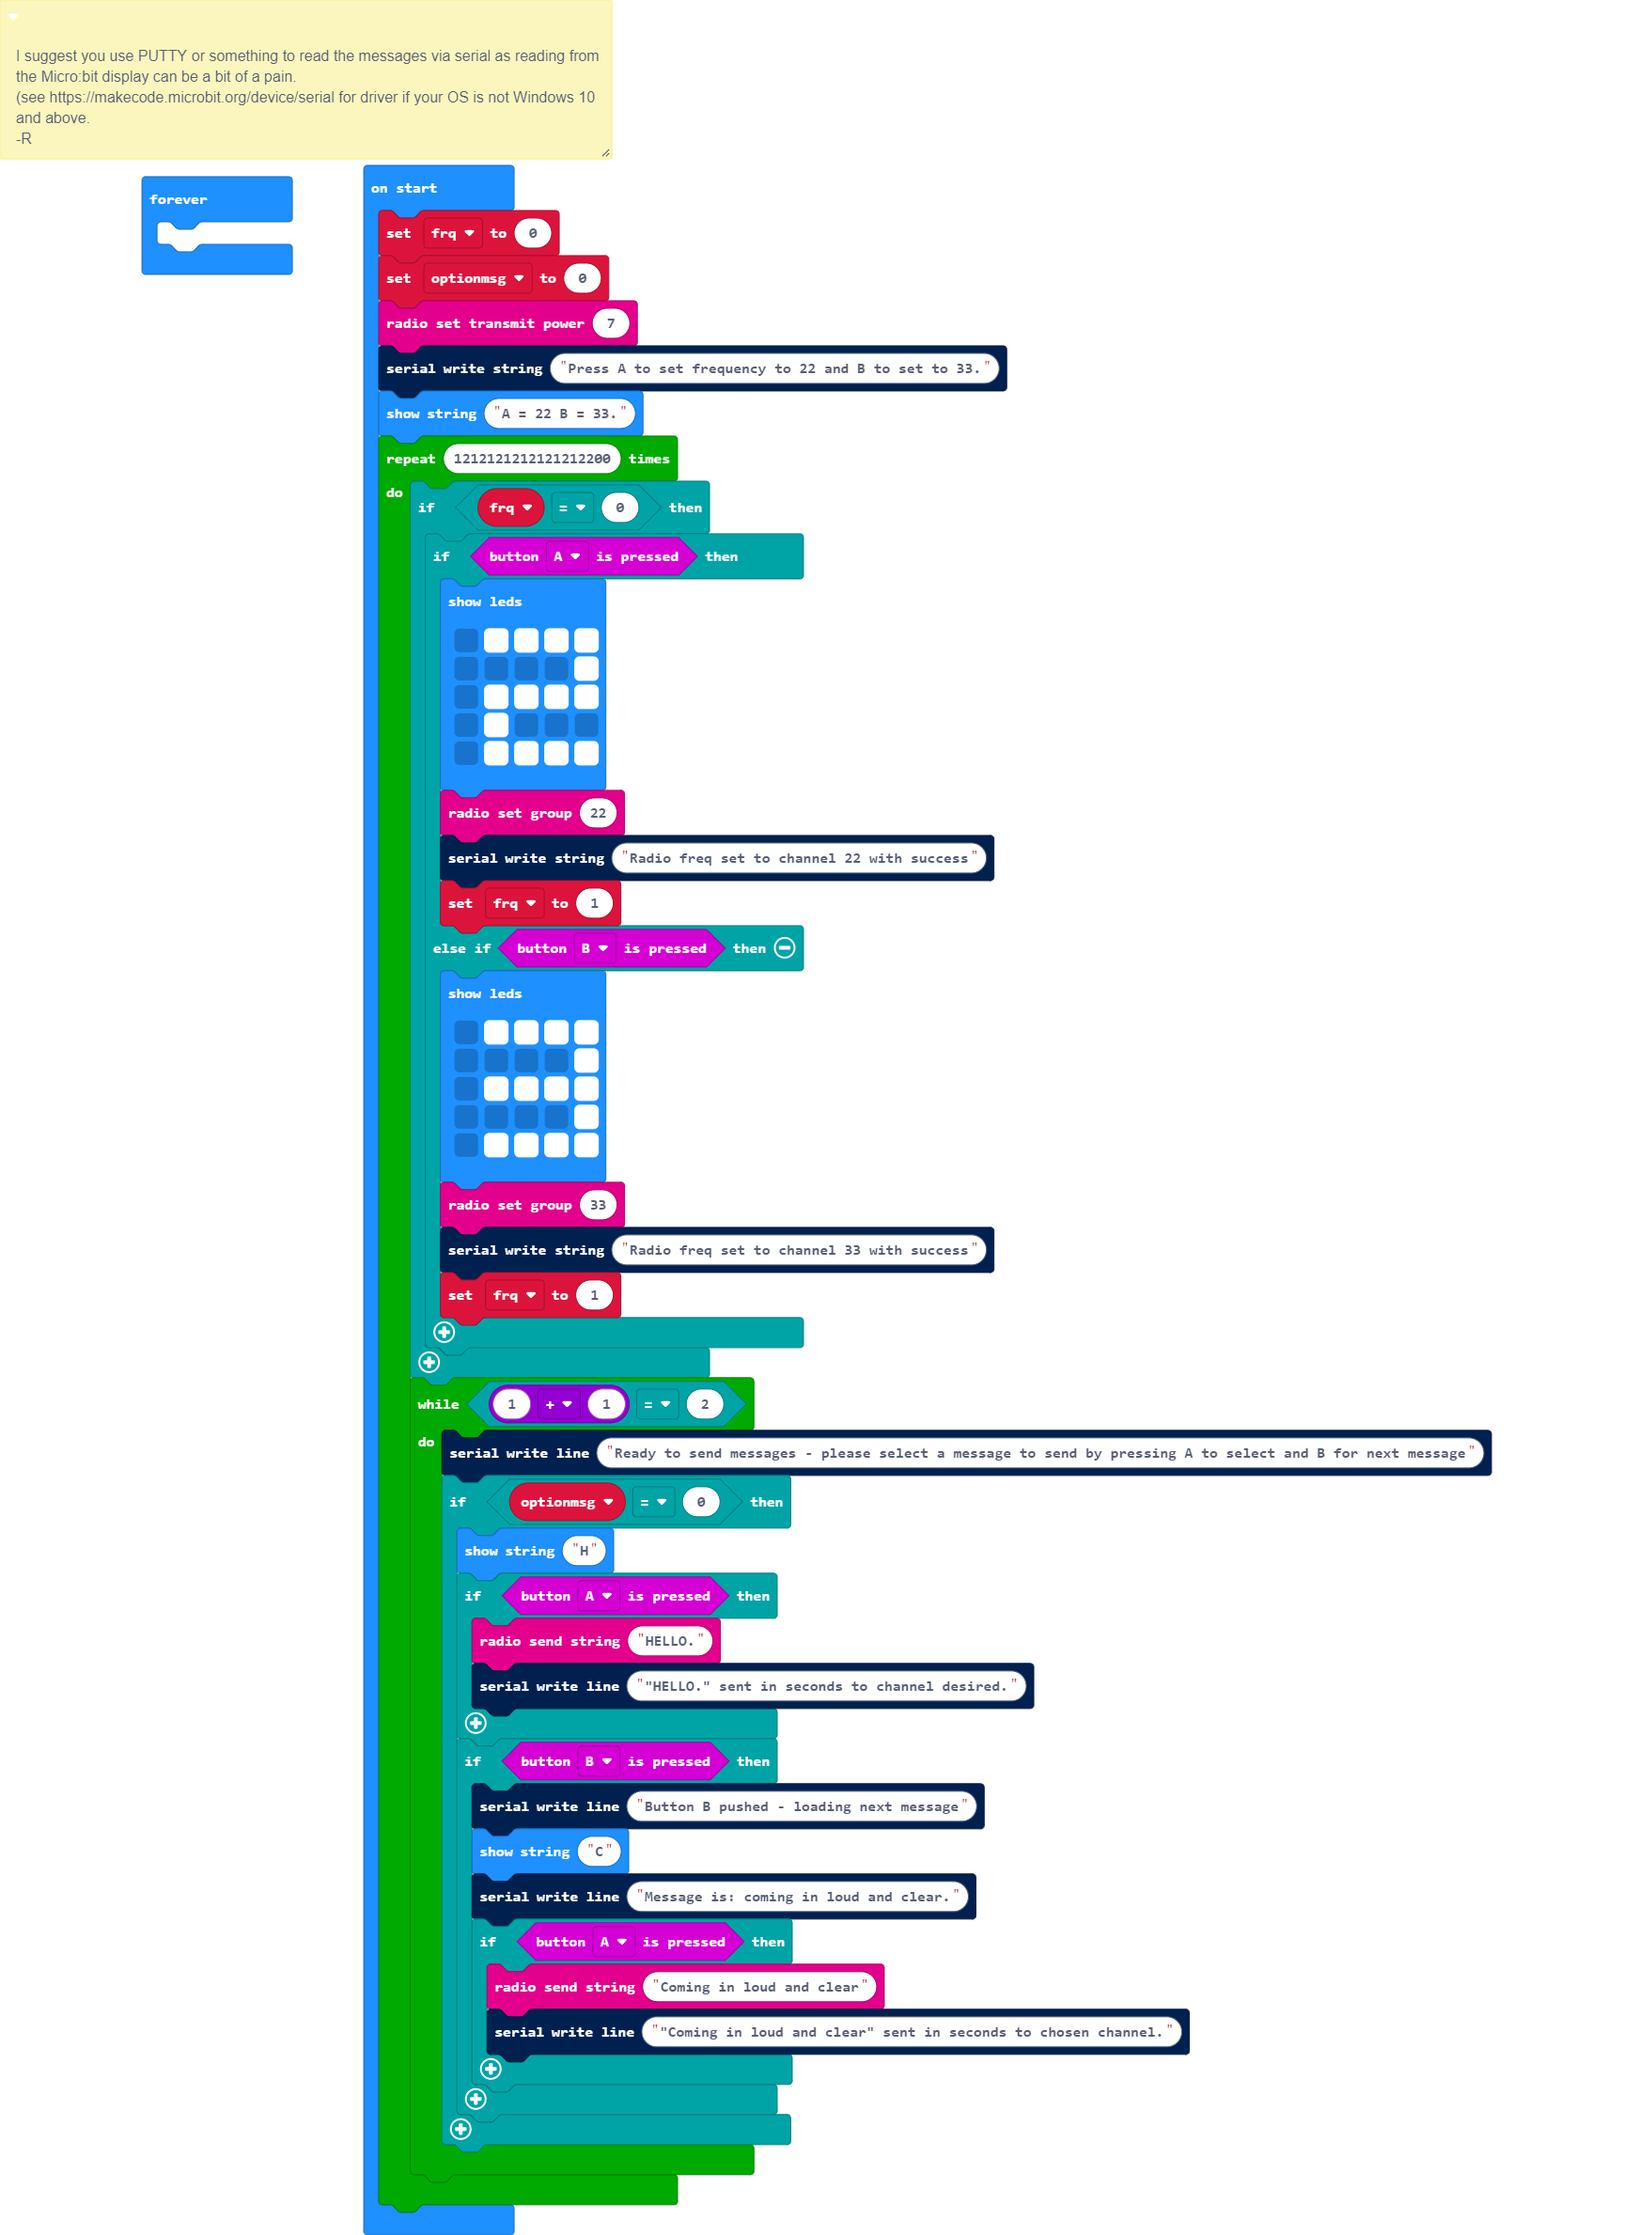
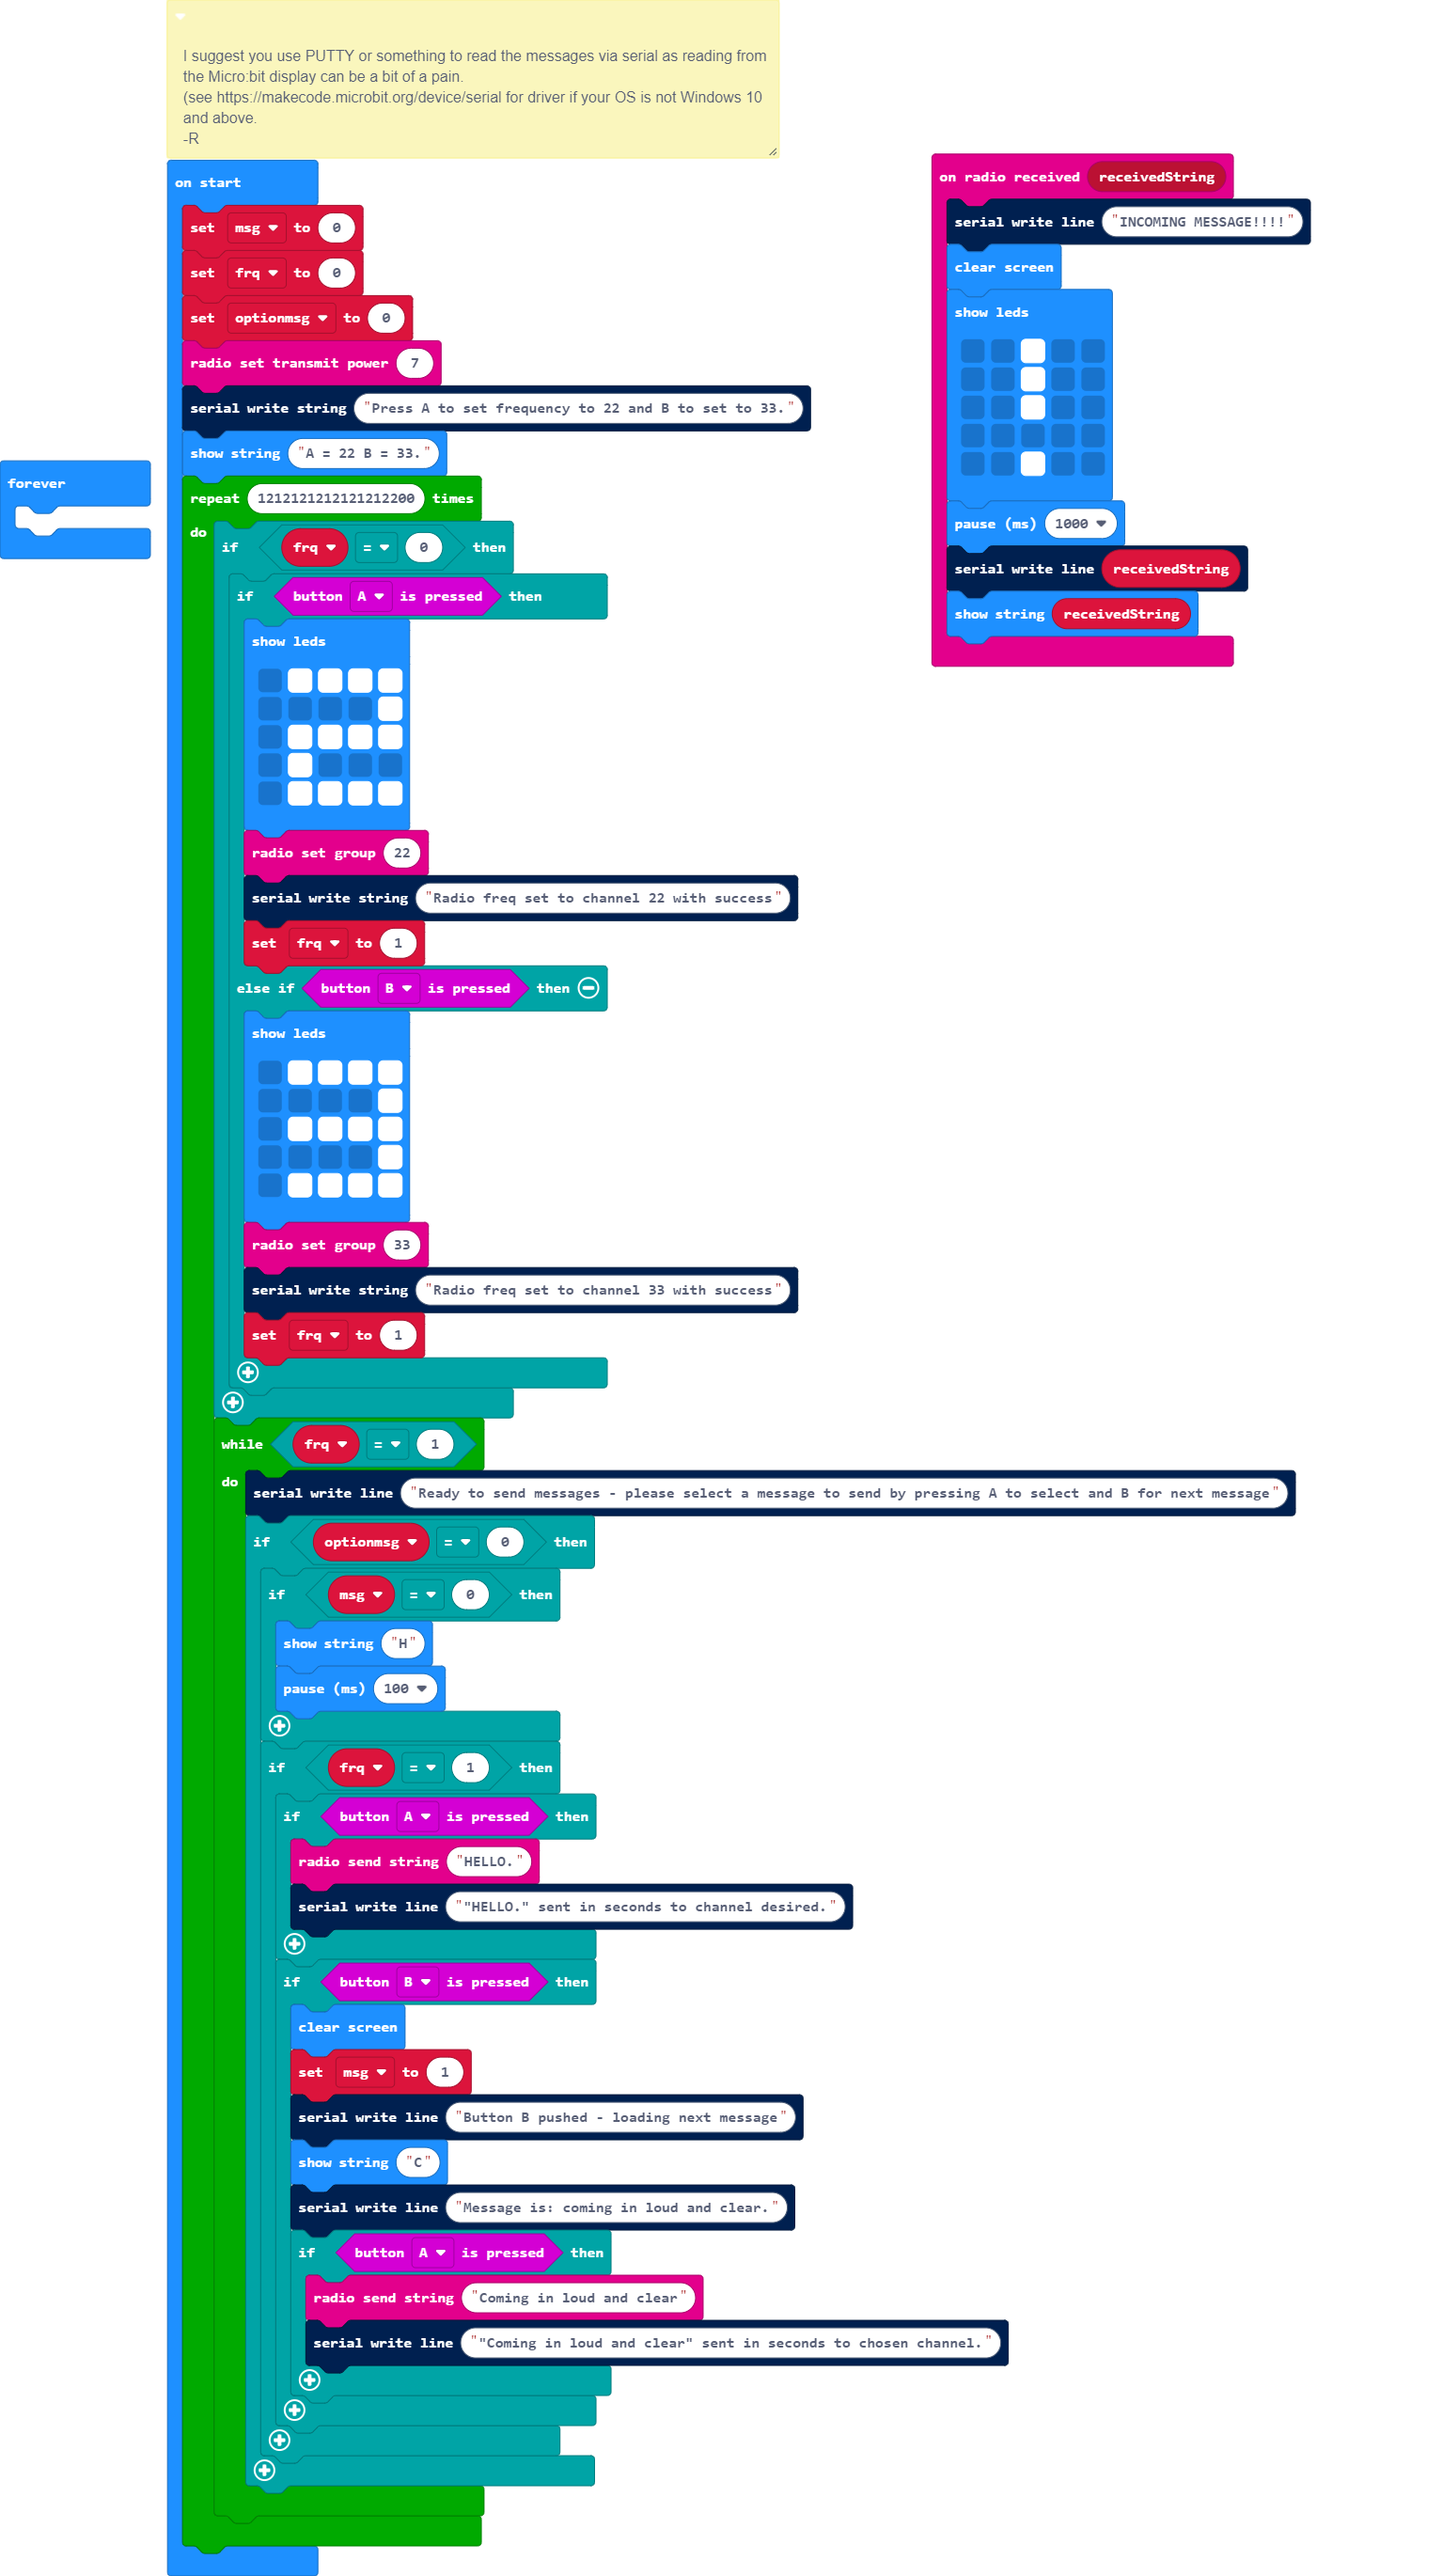
add rx capabilities

diff --git a/main.ts b/main.ts
@@ -1,3 +1,17 @@
+radio.onReceivedString(function (receivedString) {
+    serial.writeLine("INCOMING MESSAGE!!!!")
+    basic.clearScreen()
+    basic.showLeds(`
+        . . # . .
+        . . # . .
+        . . # . .
+        . . . . .
+        . . # . .
+        `)
+    basic.pause(1000)
+    serial.writeLine(receivedString)
+    basic.showString(receivedString)
+})
 /**
  * I suggest you use PUTTY or something to read the messages via serial as reading from the Micro:bit display can be a bit of a pain.
  * 
@@ -5,6 +19,7 @@
  * 
  * -R
  */
+let msg = 0
 let frq = 0
 let optionmsg = 0
 radio.setTransmitPower(7)
@@ -36,21 +51,28 @@ for (let index = 0; index < 1212121212121212200; index++) {
             frq = 1
         }
     }
-    while (1 + 1 == 2) {
+    while (frq == 1) {
         serial.writeLine("Ready to send messages - please select a message to send by pressing A to select and B for next message")
         if (optionmsg == 0) {
-            basic.showString("H")
-            if (input.buttonIsPressed(Button.A)) {
-                radio.sendString("HELLO.")
-                serial.writeLine("\"HELLO.\" sent in seconds to channel desired.")
+            if (msg == 0) {
+                basic.showString("H")
+                basic.pause(100)
             }
-            if (input.buttonIsPressed(Button.B)) {
-                serial.writeLine("Button B pushed - loading next message")
-                basic.showString("C")
-                serial.writeLine("Message is: coming in loud and clear.")
+            if (frq == 1) {
                 if (input.buttonIsPressed(Button.A)) {
-                    radio.sendString("Coming in loud and clear")
-                    serial.writeLine("\"Coming in loud and clear\" sent in seconds to chosen channel.")
+                    radio.sendString("HELLO.")
+                    serial.writeLine("\"HELLO.\" sent in seconds to channel desired.")
+                }
+                if (input.buttonIsPressed(Button.B)) {
+                    basic.clearScreen()
+                    msg = 1
+                    serial.writeLine("Button B pushed - loading next message")
+                    basic.showString("C")
+                    serial.writeLine("Message is: coming in loud and clear.")
+                    if (input.buttonIsPressed(Button.A)) {
+                        radio.sendString("Coming in loud and clear")
+                        serial.writeLine("\"Coming in loud and clear\" sent in seconds to chosen channel.")
+                    }
                 }
             }
         }
